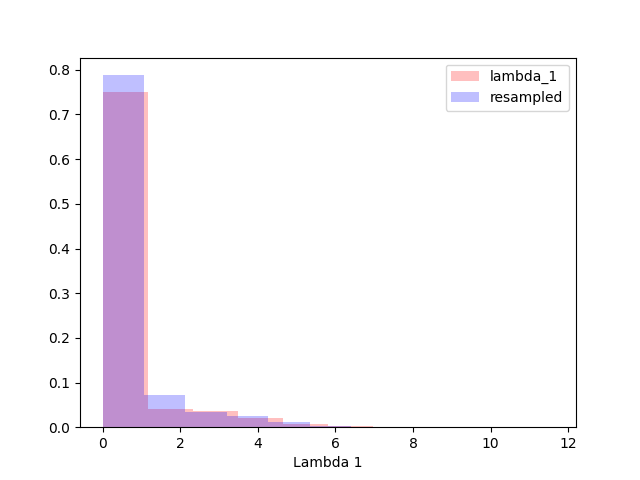
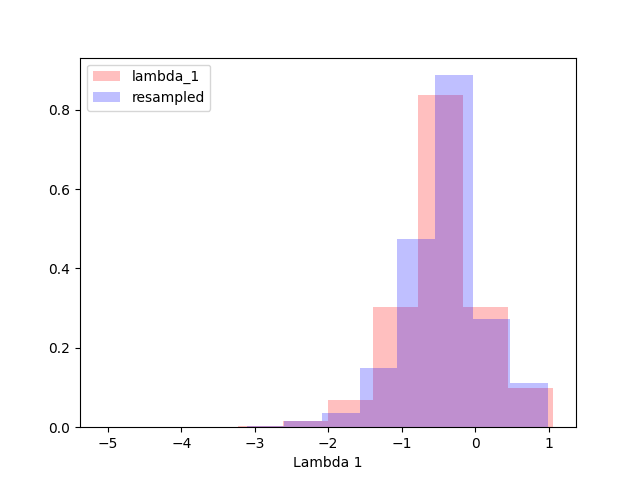
log scaled the lambdas for method12 before taking hist!

diff --git a/year3/lastStretch/lambdaReflectionStudy/reflectionTests.py b/year3/lastStretch/lambdaReflectionStudy/reflectionTests.py
@@ -47,8 +47,8 @@ def method12():
     resampledLambda1 = new_margPostData[:,0]
 
     plt.clf()
-    plt.hist(Lambda_1,density=True,color='red',alpha=0.25,label="lambda_1")
-    plt.hist(resampledLambda1,density=True,color='blue',alpha=0.25,label="resampled")
+    plt.hist(np.log10(Lambda_1),density=True,color='red',alpha=0.25,label="lambda_1")
+    plt.hist(np.log10(resampledLambda1),density=True,color='blue',alpha=0.25,label="resampled")
     plt.legend()
     plt.xlabel("Lambda 1")
     plt.savefig("low_zero_method12.png")
